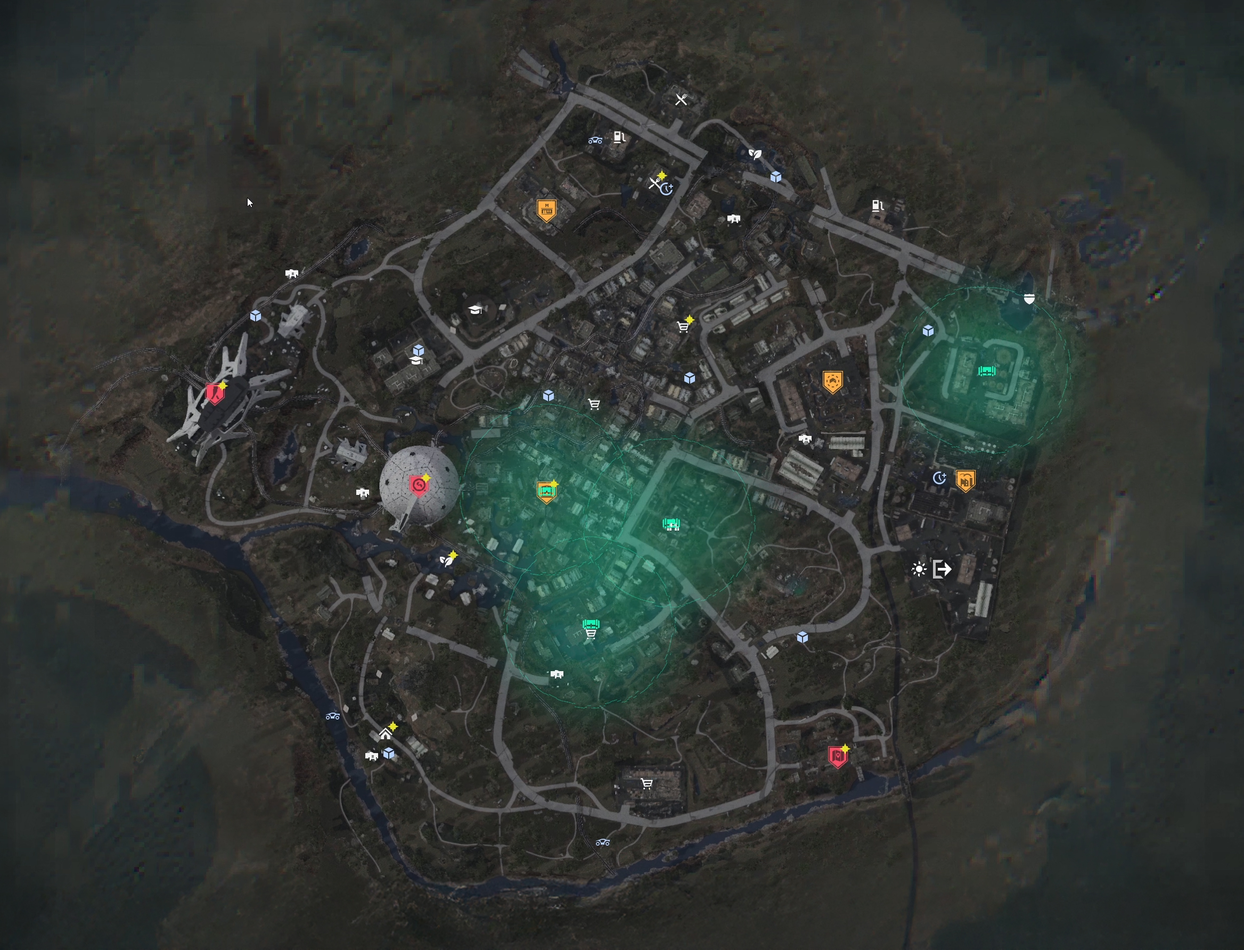
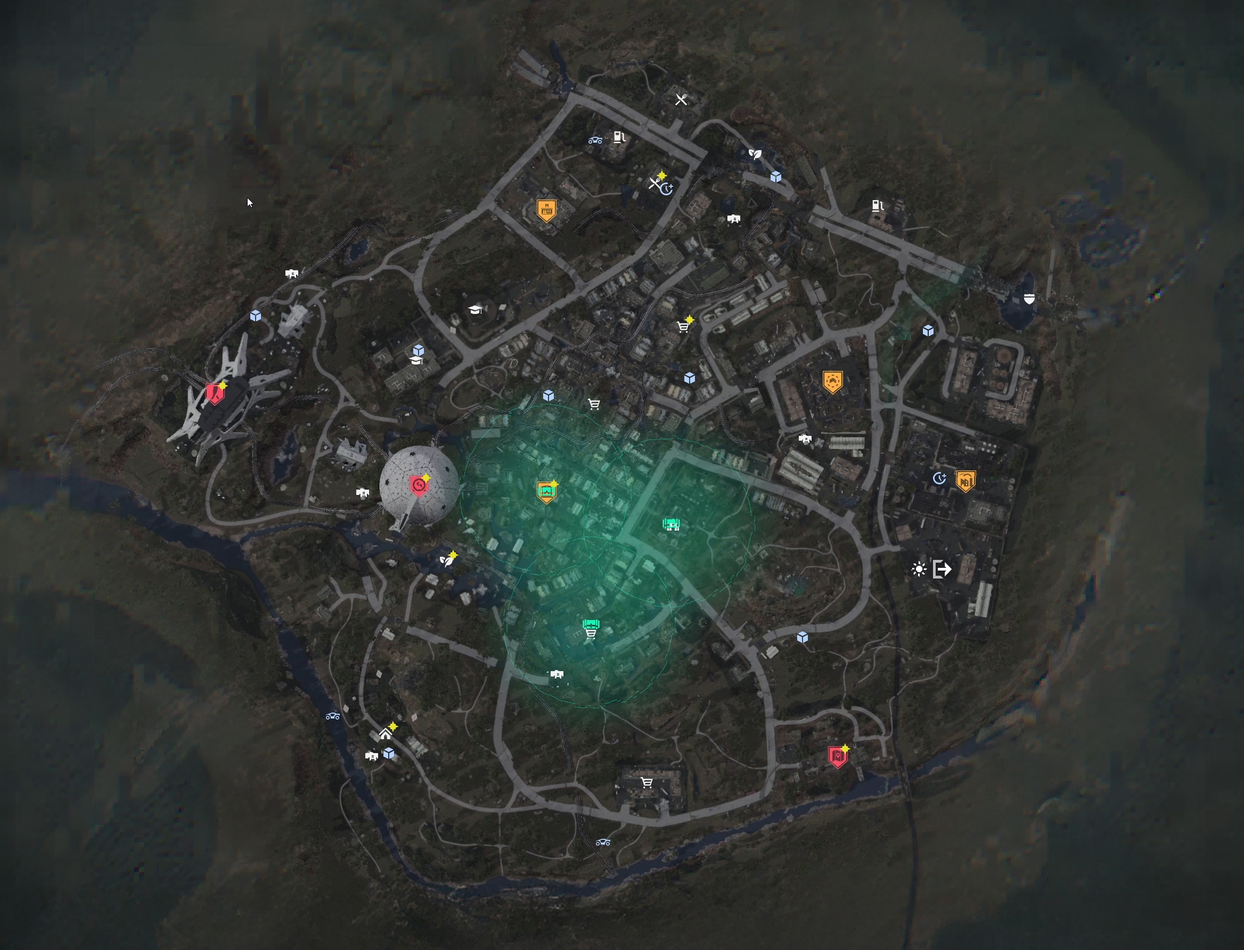
fixed offset for the second map; minor bugs fixes

Changed region(s): [[0.7188, 0.2773, 0.875, 0.493], [0.5, 0.8319, 0.5625, 0.8627]]

diff --git a/client.js b/client.js
@@ -1,6 +1,8 @@
-// Global offsets
-let offsetX = 602; // Change this to your desired X offset
-let offsetY = -248; // Change this to your desired Y offset
+// Global offsets and scales
+let offsetX = 602; // Default for Maynard; overridden per map
+let offsetY = -248; // Default for Maynard; overridden per map
+let scaleX = 1.664; // Units per pixel (X); overridden per map
+let scaleY = 1.664; // Units per pixel (Y); overridden per map
 
 // Map configuration
 const MAP_IDS = {
@@ -22,7 +24,9 @@ const MAP_CONFIG = {
     hasGuide: true,
     // Default coordinate origin offsets for this map (pixel space before scaling)
     offsetX: 602,
-    offsetY: -248
+    offsetY: -248,
+    scaleX: 1.664,
+    scaleY: 1.664
   },
   [MAP_IDS.AGNESVILLE]: {
     name: 'agnesville',
@@ -36,7 +40,9 @@ const MAP_CONFIG = {
     hasGuide: false,
     // Defaults for Agnesville; adjust via calibration panel and then bake in
     offsetX: 887,
-    offsetY: -764
+    offsetY: -764,
+    scaleX: 0.97,
+    scaleY: 0.96
   },
   [MAP_IDS.SINKHOLE]: {
     name: 'sinkhole',
@@ -47,7 +53,9 @@ const MAP_CONFIG = {
     heatmapImage: 'maps/Sinkhole_Heatmap_Transparent.png',
     guideImage: 'maps/Sinkhole_Guide_Transparent.png',
     offsetX: 0,
-    offsetY: 0
+    offsetY: 0,
+    scaleX: 1.664,
+    scaleY: 1.664
   }
 };
 
@@ -78,12 +86,14 @@ function loadOffsetsForCurrentMap() {
   }
   offsetX = (persisted && typeof persisted.offsetX === 'number') ? persisted.offsetX : (typeof cfg.offsetX === 'number' ? cfg.offsetX : offsetX);
   offsetY = (persisted && typeof persisted.offsetY === 'number') ? persisted.offsetY : (typeof cfg.offsetY === 'number' ? cfg.offsetY : offsetY);
+  scaleX = (persisted && typeof persisted.scaleX === 'number') ? persisted.scaleX : (typeof cfg.scaleX === 'number' ? cfg.scaleX : scaleX);
+  scaleY = (persisted && typeof persisted.scaleY === 'number') ? persisted.scaleY : (typeof cfg.scaleY === 'number' ? cfg.scaleY : scaleY);
   updateOriginCrosshair();
 }
 
 function saveOffsetsForCurrentMap() {
   const key = getOffsetStorageKey();
-  localStorage.setItem(key, JSON.stringify({ offsetX, offsetY }));
+  localStorage.setItem(key, JSON.stringify({ offsetX, offsetY, scaleX, scaleY }));
 }
 
 // Ensure crosshair element exists
@@ -411,20 +421,21 @@ function updateContextMenuHtml() {
         <select id="context-poi-type">
           <option value="shelter">Mobile Shelter</option>
           <option value="bunker">Rebirth Bunker</option>
+          <option value="container">Locked Containers</option>
+          <option value="secret">Secret</option>
           <option value="fragment">Clearance Fragment</option>
           <option value="machinery">EC Kits/Machinery Parts</option>
           <option value="machinery" style="display: none;">Machinery Parts</option>
-          <option value="electronics">Home - Electronics</option>
-          <option value="secret">Secret</option>
-          <option value="emp-jammer">Home - Drawers</option>
           <option value="ec-kits" style="display: none;">EC Kits</option>
-          <option value="collectibles">Collectibles</option>
+          <option value="electronics">Home - Electronics</option>
           <option value="jewelries">Jewelries</option>
           <option value="toolboxes-luggage">Toolboxes/Luggage</option>
-          <option value="container">Locked Containers</option>
-          <option value="respawn">Respawn</option>
           <option value="distilleries">Botkin Distilleries</option>
           <option value="helicopters">Helicopters</option>
+          <option value="emp-jammer">Home - Drawers</option>
+          <option value="vending">Vending Machines</option>
+          <option value="collectibles">Collectibles</option>
+          <option value="respawn">Respawns</option>
         </select>
       </div>
       <div class="context-menu-field">
@@ -605,35 +616,35 @@ function initMap() {
   // Initialize zoom indicator
   updateZoomIndicator();
 
-  // Mouse events for dragging
-  mapElement.on('mousedown', startDragging);
-  $(document).on('mousemove', dragMap);
-  $(document).on('mouseup', stopDragging);
+  // Mouse events for dragging (de-duplicate handlers)
+  mapElement.off('mousedown', startDragging).on('mousedown', startDragging);
+  $(document).off('mousemove', dragMap).on('mousemove', dragMap);
+  $(document).off('mouseup', stopDragging).on('mouseup', stopDragging);
 
   // Map controls
-  $('#zoom-in').on('click', () => {
+  $('#zoom-in').off('click').on('click', () => {
     const containerWidth = $('#map-container').width();
     const containerHeight = $('#map-container').height();
     changeZoom(0.2, containerWidth / 2, containerHeight / 2);
   });
 
-  $('#zoom-out').on('click', () => {
+  $('#zoom-out').off('click').on('click', () => {
     const containerWidth = $('#map-container').width();
     const containerHeight = $('#map-container').height();
     changeZoom(-0.2, containerWidth / 2, containerHeight / 2);
   });
 
-  $('#reset-view').on('click', resetMapView);
+  $('#reset-view').off('click', resetMapView).on('click', resetMapView);
 
   // Heatmap toggle
-  $('#toggle-heatmap').on('click', toggleHeatmap);
+  $('#toggle-heatmap').off('click', toggleHeatmap).on('click', toggleHeatmap);
   
   // Keep origin crosshair in sync with transforms (only when calibration is enabled)
   window.__calibrationEnabled = isCalibrationEnabled();
   if (window.__calibrationEnabled) {
     updateOriginCrosshair();
-    $('#map-container').off('mousemove.origin').on('mousemove.origin', function(){ updateOriginCrosshair(); });
-    $(window).off('resize.origin').on('resize.origin', function(){ updateOriginCrosshair(); });
+  $('#map-container').off('mousemove.origin').on('mousemove.origin', function(){ updateOriginCrosshair(); });
+  $(window).off('resize.origin').on('resize.origin', function(){ updateOriginCrosshair(); });
   } else {
     $('#map-container').off('mousemove.origin');
     $(window).off('resize.origin');
@@ -641,21 +652,21 @@ function initMap() {
   }
 
   // Guide toggle
-  $('#toggle-guide').on('click', toggleGuide);
+  $('#toggle-guide').off('click', toggleGuide).on('click', toggleGuide);
   
   // POI controls
-  $('#add-mode-btn').on('click', toggleAddMode);
-  $('#refresh-btn').on('click', function() {
+  $('#add-mode-btn').off('click', toggleAddMode).on('click', toggleAddMode);
+  $('#refresh-btn').off('click').on('click', function() {
     syncWithServer(true).then(() => {
       // Process URL selected POIs after sync is complete
       processUrlSelectedPois();
     });
   });
-  $('#save-poi-btn').on('click', savePoi);
-  $('#cancel-poi-btn').on('click', cancelAddPoi);
+  $('#save-poi-btn').off('click', savePoi).on('click', savePoi);
+  $('#cancel-poi-btn').off('click', cancelAddPoi).on('click', cancelAddPoi);
   
   // Map click handler for adding POIs
-  $('#game-map').on('click', handleMapClick);
+  $('#game-map').off('click', handleMapClick).on('click', handleMapClick);
   
   // Double click handler for adding POIs
   $('#game-map').on('dblclick', function(e) {
@@ -670,9 +681,9 @@ function initMap() {
       const clickX = e.pageX - mapOffset.left;
       const clickY = e.pageY - mapOffset.top;
       
-      // Convert screen coordinates to map coordinates
-      const mapX = Math.round((clickX / currentZoom - offsetX) * 1.664);
-      const mapY = Math.round(((clickY / currentZoom - offsetY - MAP_HEIGHT) * 1.664));
+      // Convert screen coordinates to game coordinates using per-map scales
+      const mapX = Math.round((clickX / currentZoom - offsetX) * scaleX);
+      const mapY = Math.round(((clickY / currentZoom - offsetY - MAP_HEIGHT) * scaleY));
       
       showContextMenu(e.pageX, e.pageY, mapX, mapY);
     }
@@ -687,9 +698,9 @@ function initMap() {
     const clickX = e.pageX - mapOffset.left;
     const clickY = e.pageY - mapOffset.top;
     
-    // Convert screen coordinates to map coordinates
-    const mapX = Math.round((clickX / currentZoom - offsetX) * 1.664);
-    const mapY = Math.round(((clickY / currentZoom - offsetY - MAP_HEIGHT) * 1.664));
+    // Convert screen coordinates to game coordinates using per-map scales
+    const mapX = Math.round((clickX / currentZoom - offsetX) * scaleX);
+    const mapY = Math.round(((clickY / currentZoom - offsetY - MAP_HEIGHT) * scaleY));
     
     // Show the context menu
     showContextMenu(e.pageX, e.pageY, mapX, mapY);
@@ -895,8 +906,8 @@ function startDragging(e) {
     // Apply the offsets and scaling factor for the form
     const mapX = Math.round(clickX);
     const mapY = Math.round(clickY - MAP_HEIGHT);
-    const adjustedX = (mapX - offsetX) * 1.664;
-    const adjustedY = (mapY - offsetY) * 1.664;
+    const adjustedX = (mapX - offsetX) * scaleX;
+    const adjustedY = (mapY - offsetY) * scaleY;
 
     // Set the coordinates in the form
     $('#poi-x').val(formatCoordinate(adjustedX));
@@ -1518,15 +1529,16 @@ function showContextMenu(screenX, screenY, mapX, mapY) {
           <option value="fragment">Clearance Fragment</option>
           <option value="machinery">EC Kits/Machinery Parts</option>
           <option value="machinery" style="display: none;">Machinery Parts</option>
+          <option value="ec-kits" style="display: none;">EC Kits</option>
           <option value="electronics">Home - Electronics</option>
-          <option value="emp-jammer">Home - Drawers</option>
           <option value="jewelries">Jewelries</option>
           <option value="toolboxes-luggage">Toolboxes/Luggage</option>          
           <option value="distilleries">Botkin Distilleries</option>
-          <option value="ec-kits" style="display: none;">EC Kits</option>
-          <option value="collectibles">Collectibles</option>
-          <option value="respawn">Respawn</option>
           <option value="helicopters">Helicopters</option>
+          <option value="emp-jammer">Home - Drawers</option>
+          <option value="vending">Vending Machines</option>
+          <option value="collectibles">Collectibles</option>
+          <option value="respawn">Respawns</option>
         </select>
       </div>
       <div class="context-menu-field">
@@ -1844,13 +1856,13 @@ function saveEditedPoi() {
 // Function to find overlapping POIs at a specific location
 function findOverlappingPois(x, y, threshold = 10) {
   // Convert coordinates to screen coordinates
-  const screenX = (x / 1.664) + offsetX;
-  const screenY = (y / 1.664) + offsetY + MAP_HEIGHT;
+  const screenX = (x / scaleX) + offsetX;
+  const screenY = (y / scaleY) + offsetY + MAP_HEIGHT;
   
   // Find all POIs that are within the threshold distance
   return pois.filter(p => p.visible && 
-    Math.abs((p.x / 1.664) + offsetX - screenX) < threshold && 
-    Math.abs((p.y / 1.664) + offsetY + MAP_HEIGHT - screenY) < threshold);
+    Math.abs((p.x / scaleX) + offsetX - screenX) < threshold && 
+    Math.abs((p.y / scaleY) + offsetY + MAP_HEIGHT - screenY) < threshold);
 }
 
 // Rendering functions
@@ -1876,8 +1888,8 @@ function renderPois() {
       //const realX = 585
       //const realY = 1180;
 
-      const realX = (poi.x / 1.664) + offsetX;
-      const realY = (poi.y / 1.664) + offsetY + MAP_HEIGHT;
+      const realX = (poi.x / scaleX) + offsetX;
+      const realY = (poi.y / scaleY) + offsetY + MAP_HEIGHT;
 
       // Check if this POI was created in the current session
       const isCurrentSession = poi.sessionId === sessionId;
@@ -2631,6 +2643,8 @@ $(document).ready(function () {
   });
 
   // Initialize the map
+  // Apply map from URL param before initializing
+  applyMapFromUrlParam();
   initMap();
   
   // Initialize session ID
@@ -3245,8 +3259,8 @@ $(document).ready(function () {
     const mapY = Math.round(((e.pageY - mapOffset.top) / currentZoom) - MAP_HEIGHT);
   
     // Apply the offsets
-    const adjustedX = (mapX - offsetX) * 1.664;
-    const adjustedY = (mapY - offsetY) * 1.664;
+    const adjustedX = (mapX - offsetX) * scaleX;
+    const adjustedY = (mapY - offsetY) * scaleY;
 
     // Determine precision based on zoom level
     // Higher zoom = more decimal places
@@ -3365,8 +3379,8 @@ function handleMapClick(e) {
     // Apply the offsets and scaling factor for the form
     const mapX = Math.round(clickX);
     const mapY = Math.round(clickY - MAP_HEIGHT);
-    const adjustedX = (mapX - offsetX) * 1.664;
-    const adjustedY = (mapY - offsetY) * 1.664;
+    const adjustedX = (mapX - offsetX) * scaleX;
+    const adjustedY = (mapY - offsetY) * scaleY;
 
     // Set the coordinates in the form
     $('#poi-x').val(formatCoordinate(adjustedX));
@@ -3404,9 +3418,9 @@ function handleMapClick(e) {
       const mapX = Math.round(clickX);
       const mapY = Math.round(clickY - MAP_HEIGHT);
       
-      // Apply the offsets and scaling factor
-      const adjustedX = (mapX - offsetX) * 1.664;
-      const adjustedY = (mapY - offsetY) * 1.664;
+      // Apply the offsets and scaling factor (per map)
+      const adjustedX = (mapX - offsetX) * scaleX;
+      const adjustedY = (mapY - offsetY) * scaleY;
       
       showContextMenu(e.pageX, e.pageY, adjustedX, adjustedY);
     }
@@ -3693,8 +3707,8 @@ function centerMapOnSelectedPois() {
     const poi = pois.find(p => p.id === poiId);
     if (poi) {
       // Calculate the real coordinates on the map
-      const realX = (poi.x / 1.664) + offsetX;
-      const realY = (poi.y / 1.664) + offsetY + MAP_HEIGHT;
+      const realX = (poi.x / scaleX) + offsetX;
+      const realY = (poi.y / scaleY) + offsetY + MAP_HEIGHT;
       
       // Center the map on this POI
       const containerWidth = $('#map-container').width();
@@ -3982,6 +3996,17 @@ window.addEventListener('unhandledrejection', function(event) {
         type: 'UnhandledPromiseRejection'
     });
 });
+
+// Read 'map' parameter from URL and set currentMapId accordingly (defaults to Maynard)
+function applyMapFromUrlParam() {
+  const params = new URLSearchParams(window.location.search);
+  const mapName = params.get('map');
+  if (!mapName) return;
+  const targetId = Object.values(MAP_IDS).find((id) => MAP_CONFIG[id] && MAP_CONFIG[id].name === mapName);
+  if (targetId) {
+    currentMapId = targetId;
+  }
+}
 
 // Function to check URL parameters for initial state
 function checkUrlParameters() {
@@ -4478,6 +4503,11 @@ function changeMap(newMapId) {
   loadOffsetsForCurrentMap();
   updateOriginCrosshair();
   
+  // Update URL with selected map name
+  const url = new URL(window.location.href);
+  url.searchParams.set('map', mapConfig.name);
+  window.history.replaceState({}, document.title, url.toString());
+
   // Show notification
   showNotification(`Switched to ${mapConfig.displayName} map`);
 }
